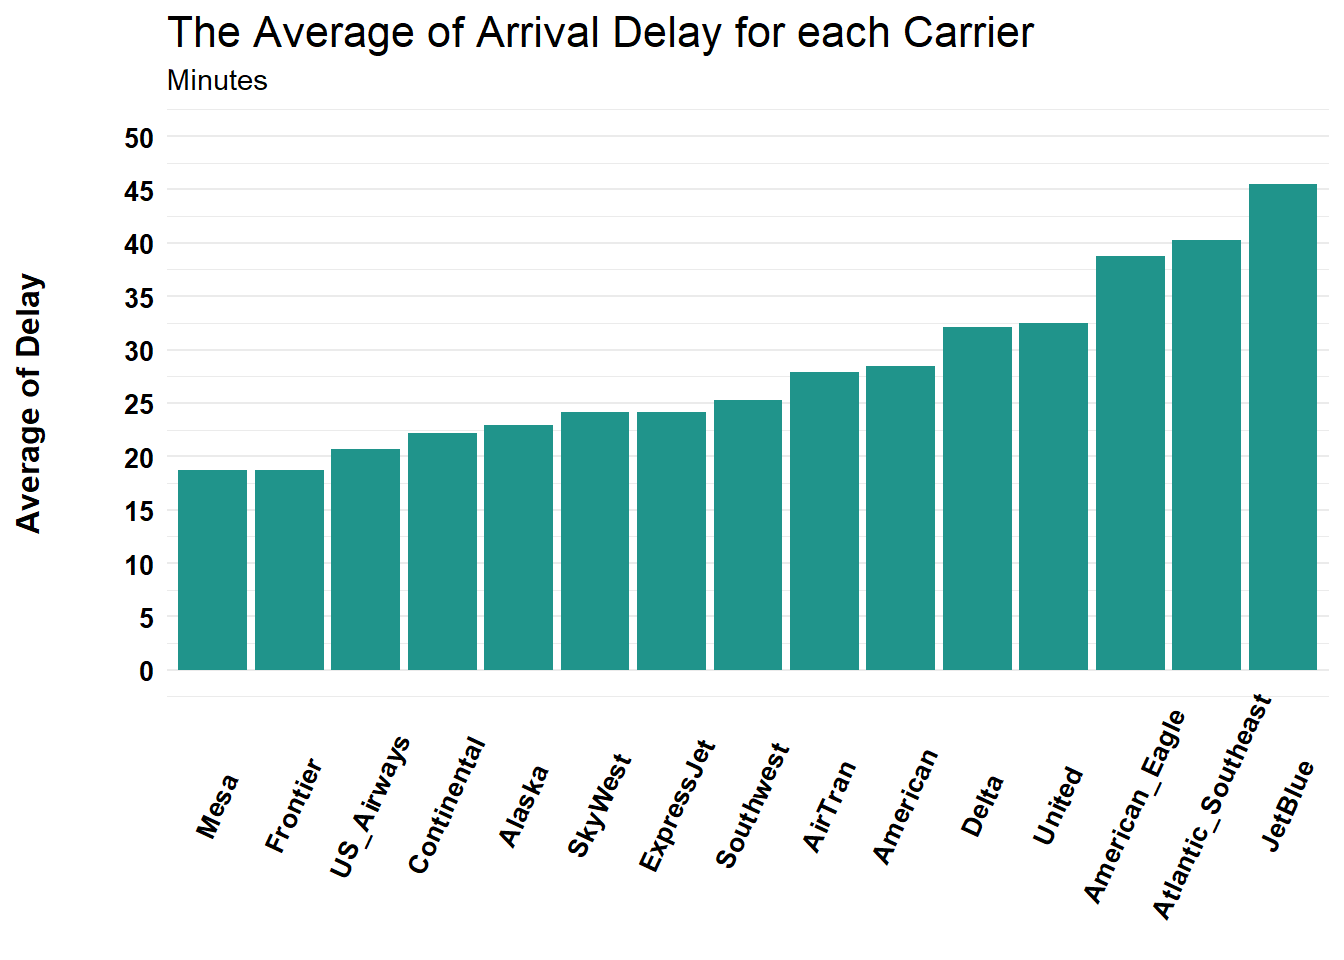
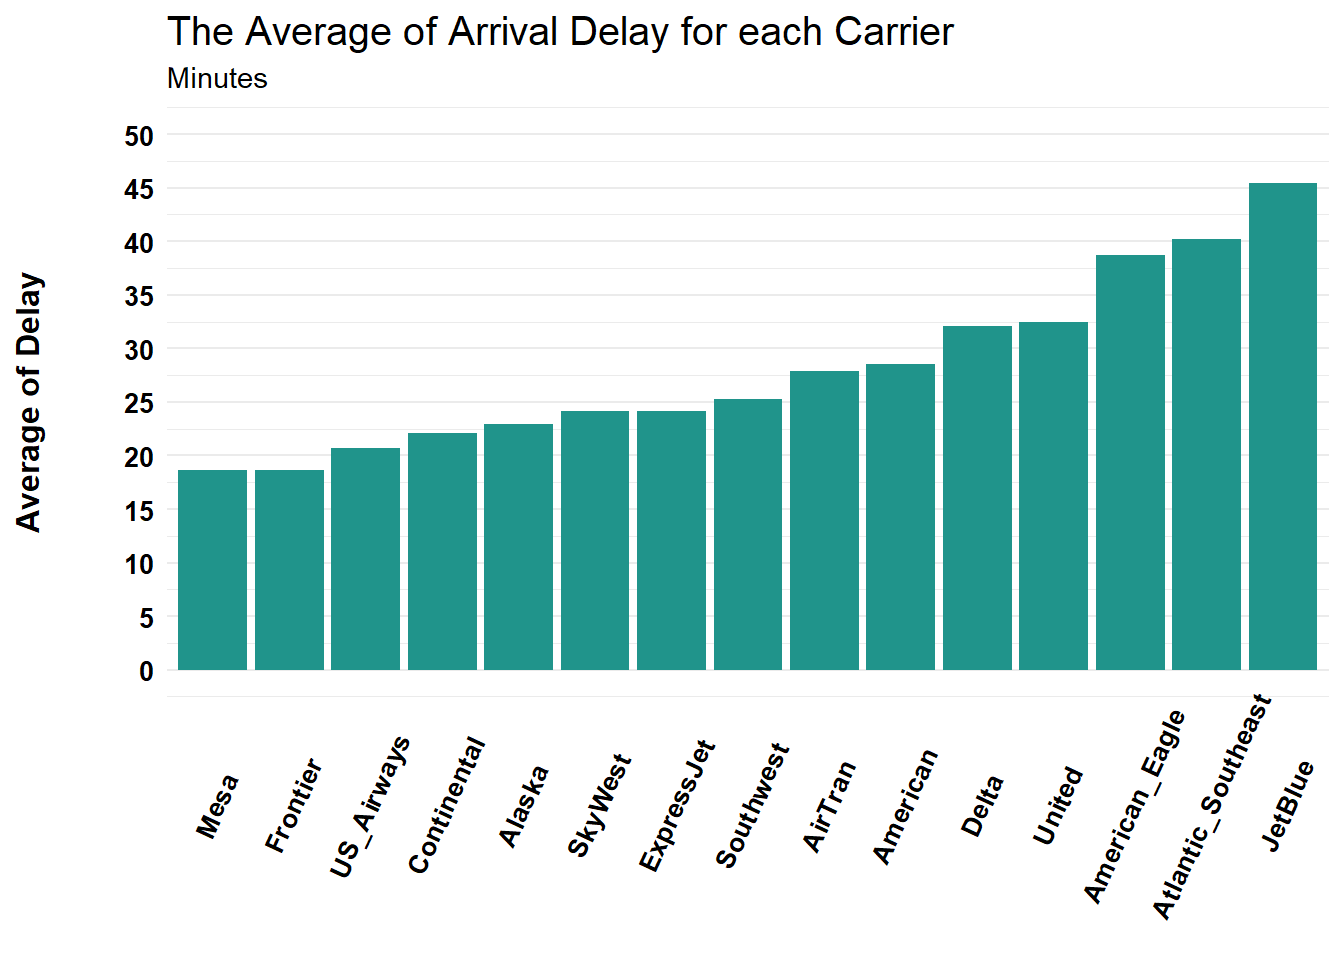
Initial Commit

diff --git a/content/post/2018-11-16-analysis-of-airlines-market-in-usa.html b/content/post/2018-11-16-analysis-of-airlines-market-in-usa.html
@@ -627,7 +627,7 @@ Cancelled_Carr</code></pre>
   theme(axis.title.x = element_blank()) + 
   theme(axis.title.y = element_text(size = 12, colour = &quot;black&quot;, face = &quot;bold&quot;, margin = margin(r=30))) +
   labs(title = &quot;The Carriers with Highest Level of Cancelled Flights&quot;) +
-  theme(plot.title = element_text(size = 16, colour = &quot;black&quot;, margin = margin(0,0,30,0)))</code></pre>
+  theme(plot.title = element_text(size = 15, colour = &quot;black&quot;, margin = margin(0,0,30,0)))</code></pre>
 <p><img src="/post/2018-11-16-analysis-of-airlines-market-in-usa_files/figure-html/unnamed-chunk-22-1.png" width="672" /></p>
 <p style="text-align: justify;">
 <strong>Which carrier has the highest average of arrival delay?</strong>
@@ -670,7 +670,7 @@ Carrier_arrdelay</code></pre>
   theme(axis.title.y = element_text(size = 12, face = &quot;bold&quot;, colour = &quot;black&quot;, margin = margin(r=30))) +
   theme(panel.grid.major.x = element_blank()) +
   labs(title = &quot;The Average of Arrival Delay for each Carrier&quot;, subtitle = &quot;Minutes&quot;) +
-  theme(plot.title = element_text(size = 16, colour = &quot;black&quot;))</code></pre>
+  theme(plot.title = element_text(size = 15, colour = &quot;black&quot;))</code></pre>
 <p><img src="/post/2018-11-16-analysis-of-airlines-market-in-usa_files/figure-html/unnamed-chunk-24-1.png" width="672" /></p>
 <p style="text-align: justify;">
 <strong>Which carrier has the highest average of departure delay?</strong>
@@ -713,7 +713,7 @@ Carrier_depdelay</code></pre>
   theme(axis.title.y = element_text(size = 12, face = &quot;bold&quot;, colour = &quot;black&quot;, margin = margin(r=30))) +
   theme(panel.grid.major.x = element_blank()) +
   labs(title = &quot;The Average of Departure Delay for each Carrier&quot;, subtitle = &quot;Minutes&quot;) +
-  theme(plot.title = element_text(size = 16, colour = &quot;black&quot;))</code></pre>
+  theme(plot.title = element_text(size = 15, colour = &quot;black&quot;))</code></pre>
 <p><img src="/post/2018-11-16-analysis-of-airlines-market-in-usa_files/figure-html/unnamed-chunk-26-1.png" width="672" /></p>
 <div id="conclusion1" class="section level3">
 <h3>Conclusion1:</h3>

diff --git a/public/post/analysis-of-airlines-market-in-usa/index.html b/public/post/analysis-of-airlines-market-in-usa/index.html
@@ -700,7 +700,7 @@ Cancelled_Carr</code></pre>
   theme(axis.title.x = element_blank()) + 
   theme(axis.title.y = element_text(size = 12, colour = &quot;black&quot;, face = &quot;bold&quot;, margin = margin(r=30))) +
   labs(title = &quot;The Carriers with Highest Level of Cancelled Flights&quot;) +
-  theme(plot.title = element_text(size = 16, colour = &quot;black&quot;, margin = margin(0,0,30,0)))</code></pre>
+  theme(plot.title = element_text(size = 15, colour = &quot;black&quot;, margin = margin(0,0,30,0)))</code></pre>
 <p><img src="/post/2018-11-16-analysis-of-airlines-market-in-usa_files/figure-html/unnamed-chunk-22-1.png" width="672" /></p>
 <p style="text-align: justify;">
 <strong>Which carrier has the highest average of arrival delay?</strong>
@@ -743,7 +743,7 @@ Carrier_arrdelay</code></pre>
   theme(axis.title.y = element_text(size = 12, face = &quot;bold&quot;, colour = &quot;black&quot;, margin = margin(r=30))) +
   theme(panel.grid.major.x = element_blank()) +
   labs(title = &quot;The Average of Arrival Delay for each Carrier&quot;, subtitle = &quot;Minutes&quot;) +
-  theme(plot.title = element_text(size = 16, colour = &quot;black&quot;))</code></pre>
+  theme(plot.title = element_text(size = 15, colour = &quot;black&quot;))</code></pre>
 <p><img src="/post/2018-11-16-analysis-of-airlines-market-in-usa_files/figure-html/unnamed-chunk-24-1.png" width="672" /></p>
 <p style="text-align: justify;">
 <strong>Which carrier has the highest average of departure delay?</strong>
@@ -786,7 +786,7 @@ Carrier_depdelay</code></pre>
   theme(axis.title.y = element_text(size = 12, face = &quot;bold&quot;, colour = &quot;black&quot;, margin = margin(r=30))) +
   theme(panel.grid.major.x = element_blank()) +
   labs(title = &quot;The Average of Departure Delay for each Carrier&quot;, subtitle = &quot;Minutes&quot;) +
-  theme(plot.title = element_text(size = 16, colour = &quot;black&quot;))</code></pre>
+  theme(plot.title = element_text(size = 15, colour = &quot;black&quot;))</code></pre>
 <p><img src="/post/2018-11-16-analysis-of-airlines-market-in-usa_files/figure-html/unnamed-chunk-26-1.png" width="672" /></p>
 <div id="conclusion1" class="section level3">
 <h3>Conclusion1:</h3>
